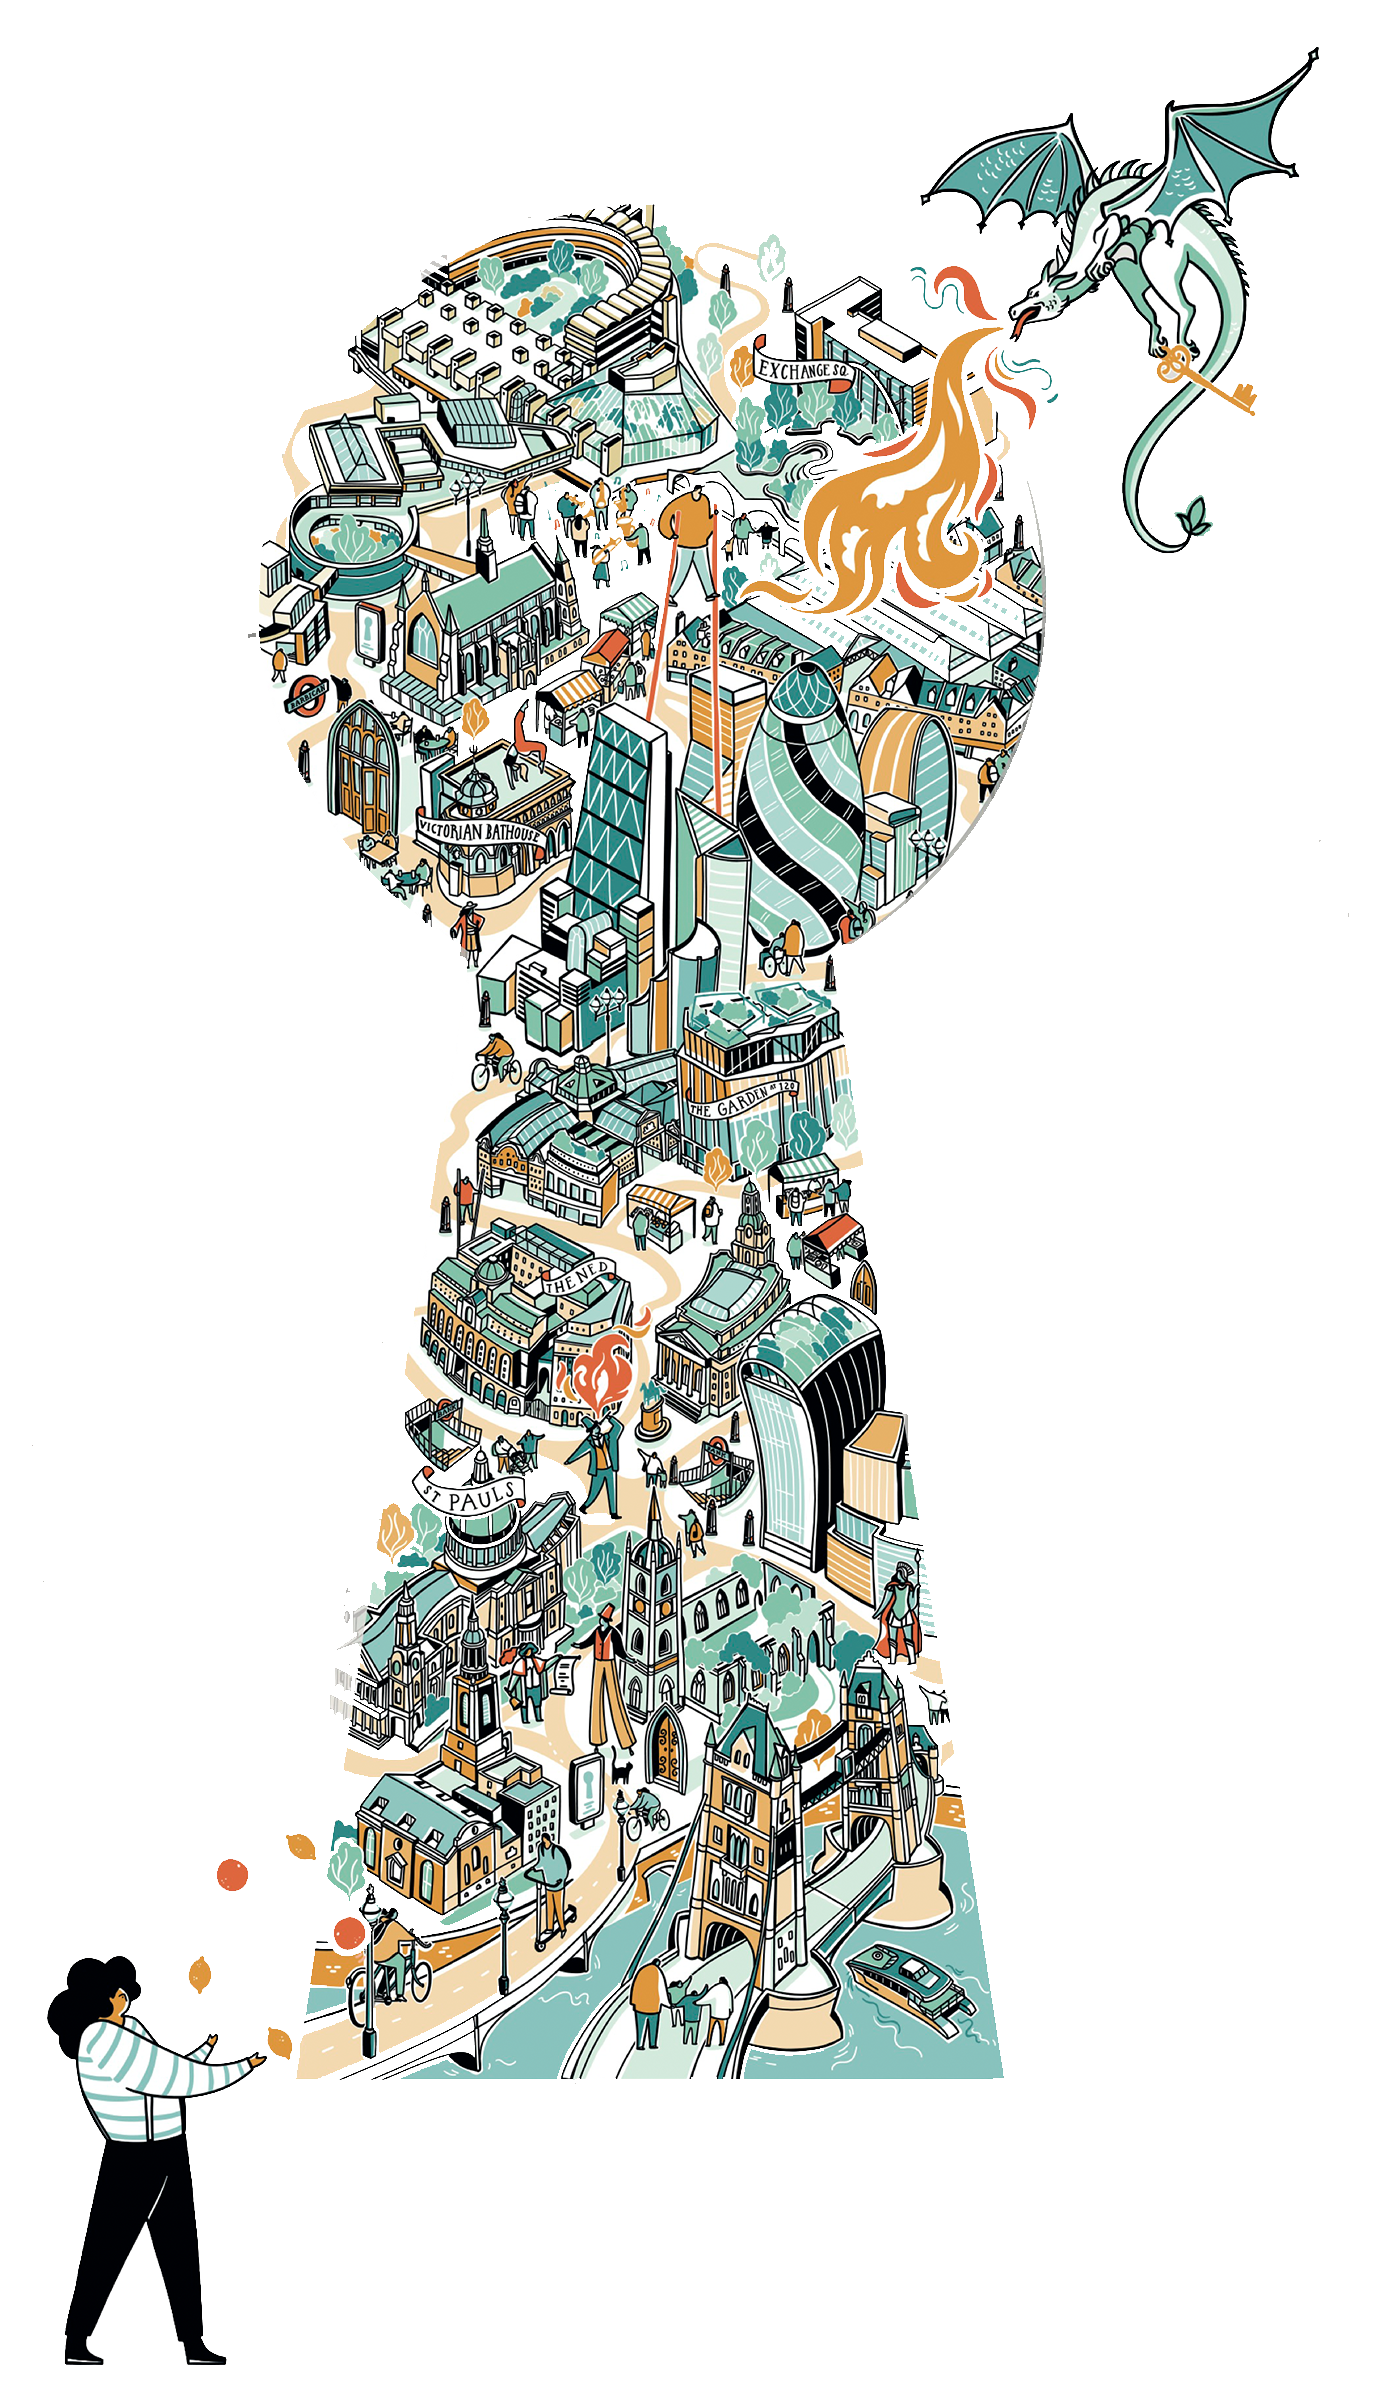
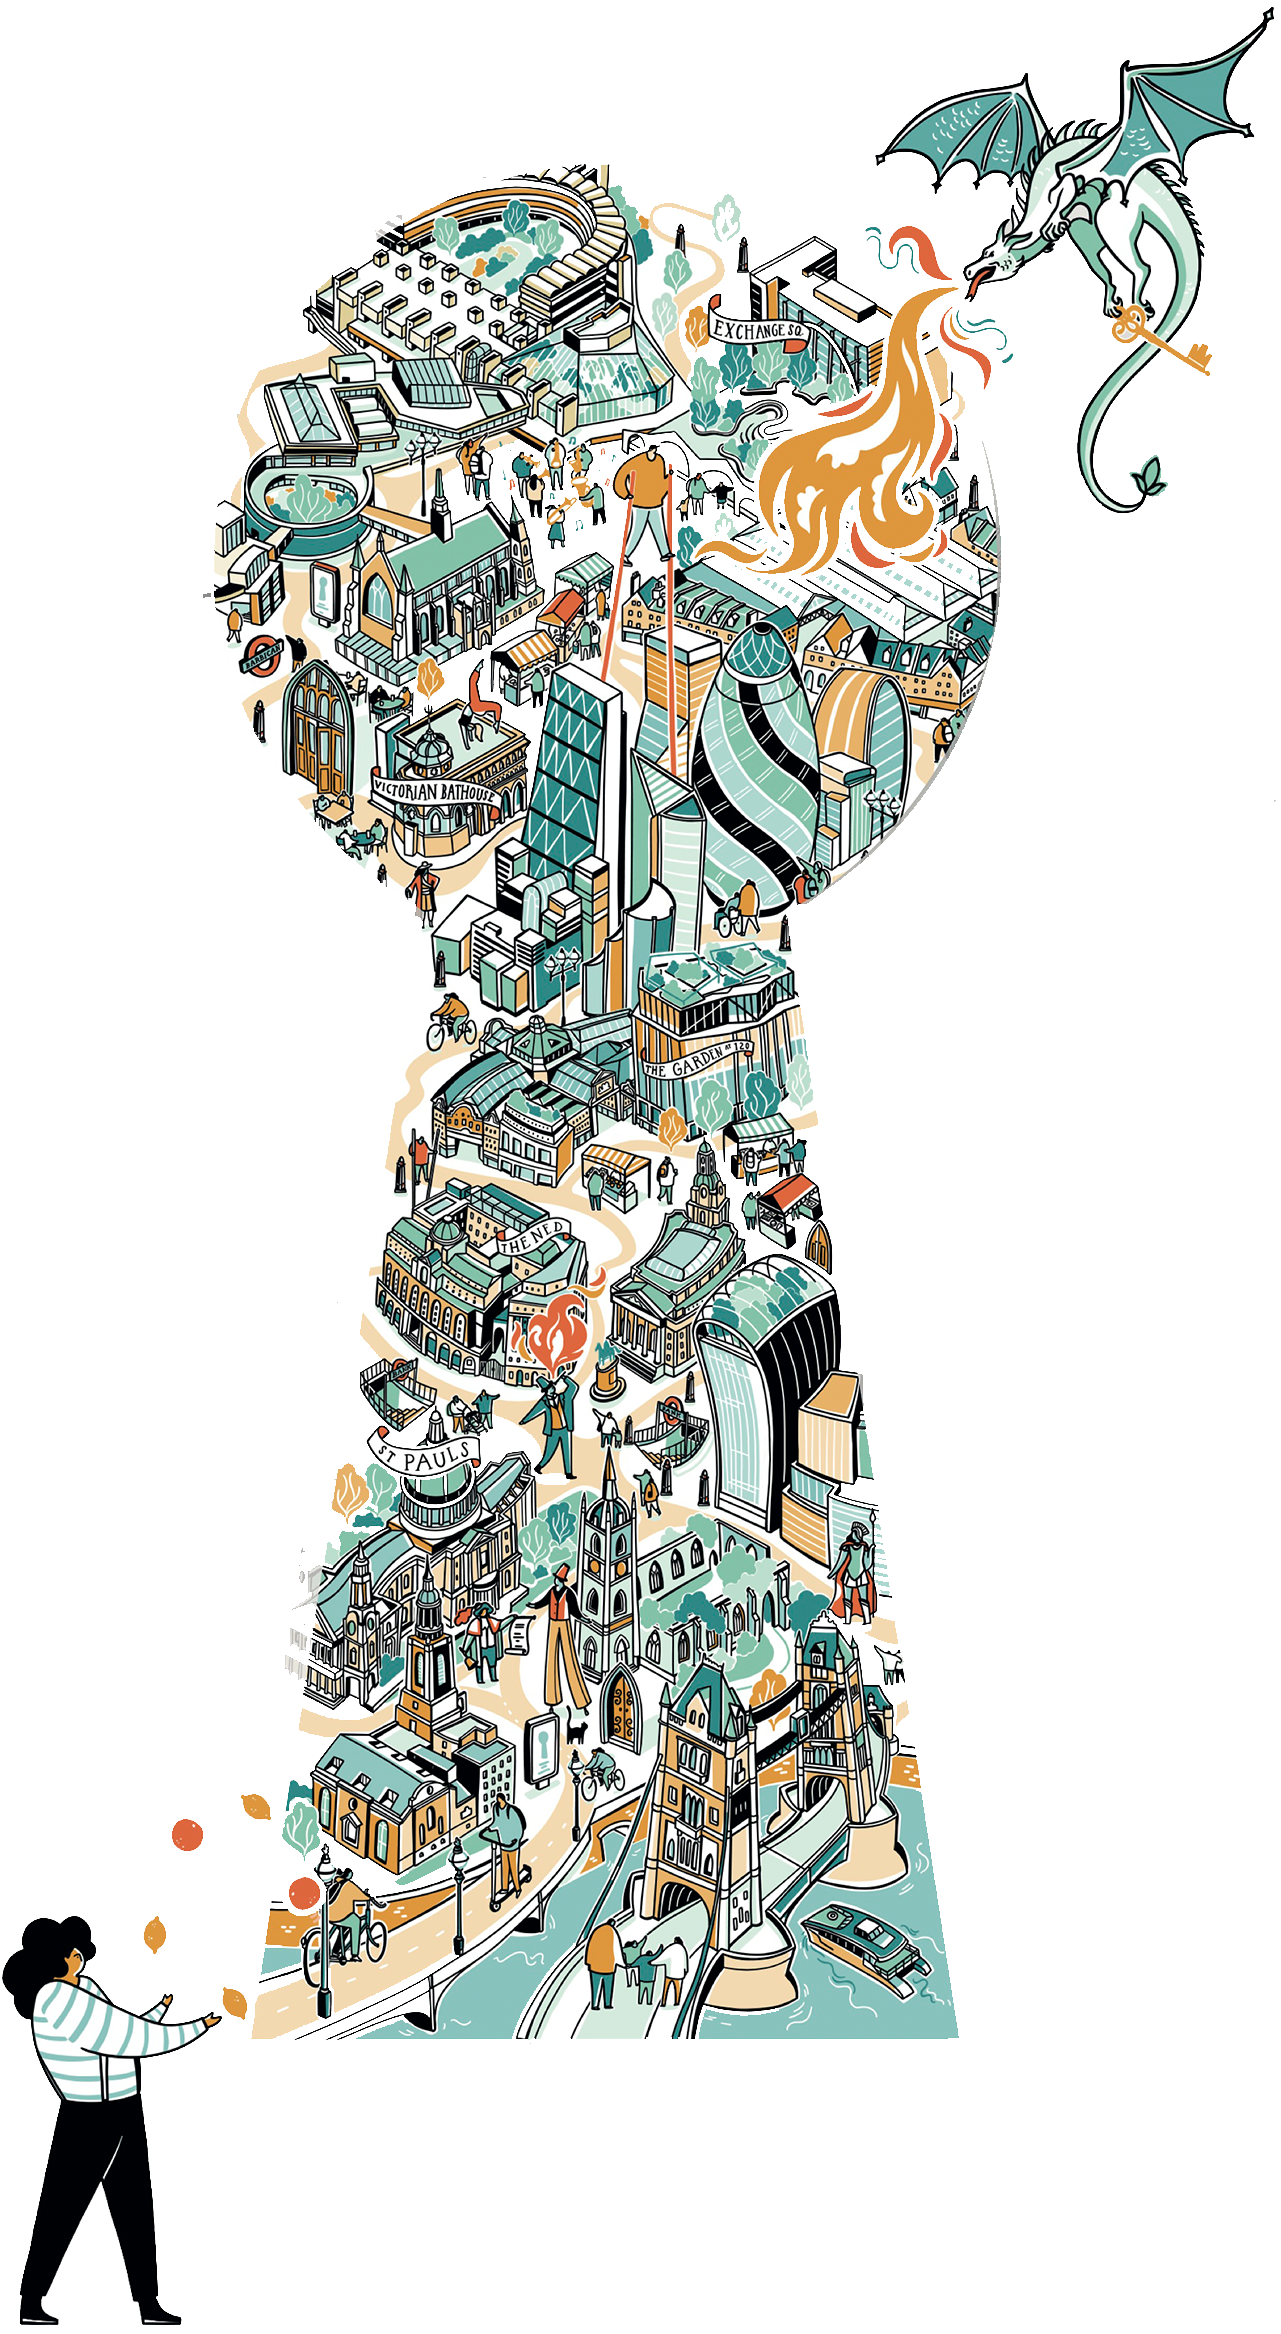
homepage anim

diff --git a/index.html b/index.html
@@ -19,23 +19,31 @@
 
 
   <!-- our scripts -->
-  <!-- <script src="" type="module"></script> -->
+  <script src="./scripts/landing.js" type="module"></script>
   <title>The Golden Key</title>
 </head>
 
 <body>
-  <main class="landing">
-    <img src="./assets/img/keyholecolor.png" class="hero" id="keyholeMount">
-    <h1 class="title">The Golden Key
-    </h1>
-    <h2 class="title">15th October 2022</h2>
-    <p>A free immersive takeover of the City of London by Coney & Friends</p>
+  <main class="landing" id="landing">
 
-    <!-- TODO add email invite -->
-    <button class="enter"><a href="signup.html">
-        <p>Enter</p>
-      </a></button>
+    <!-- <div class="keyhole-wrapper" class=""> -->
+    <img src="./assets/img/keyhole3.png" class="black keyhole" id="keyholeBlack">
+    <img src="./assets/img/keyhole4.png" class="scene keyhole" id="scene">
+    <!-- </div> -->
+    <div class="info-wrapper">
+      <h1 class="title">The Golden Key
+      </h1>
+      <h2 class="title">15th October 2022</h2>
+      <p>A free immersive takeover of the City of London by Coney & Friends</p>
+      <button class="enter"><a href="signup.html">
+          <p>Enter</p>
+        </a></button>
+    </div>
+
+
   </main>
+  <script src="https://cdnjs.cloudflare.com/ajax/libs/gsap/3.11.0/gsap.min.js"></script>
+
 </body>
 
 </html>

diff --git a/styles/landing.css b/styles/landing.css
@@ -10,3 +10,63 @@ h1.title,
 h2.title {
   margin-bottom: 5px;
 }
+
+h1.title {
+  font-size: 1.7rem;
+}
+
+h2.title {
+  font-size: 2.5rem;
+}
+
+.keyhole {
+  position: fixed;
+}
+
+.keyhole.scene {
+  /* display: none; */
+  z-index: -99999;
+  transform: scale(5);
+  opacity: 0;
+}
+
+.keyhole.black {
+  /* position: relative; */
+  /* transform: scale(1.5); */
+  /* width: 150px; */
+  z-index: -99999;
+}
+
+.keyhole.scene {
+  /* position: relative; */
+  /* width: 150px; */
+}
+
+.keyhole-wrapper {
+  background-color: aquamarine;
+  width: 100%;
+  height: 50vh;
+  display: flex;
+  justify-content: center;
+  align-items: center;
+}
+
+.info-wrapper {
+  padding: var(--padding);
+  background-color: transparent;
+  border-radius: 10px;
+}
+
+.enter {
+  background-color: var(--color-orange);
+}
+
+@media screen and (min-width: 450px) {
+  .keyhole {
+    height: 90vh;
+  }
+
+  .info-wrapper {
+    max-width: 300px;
+  }
+}

diff --git a/scripts/landing.js b/scripts/landing.js
@@ -1,0 +1,23 @@
+const landing = document.getElementById("landing");
+const scene = document.getElementById("scene");
+
+landing.addEventListener("click", () => {
+  // scene.addClass("show");
+  gsap.to(".black", {
+    duration: 5,
+    scale: 8,
+    opacity: 0,
+  });
+  gsap.to(".scene", {
+    delay: 1,
+    duration: 3,
+    scale: 1,
+    opacity: 1,
+  });
+  gsap.to(".info-wrapper", {
+    delay: 3,
+    duration: 5,
+    backgroundColor: "#EA9E25",
+    border: " #fff 1px solid",
+  });
+});
